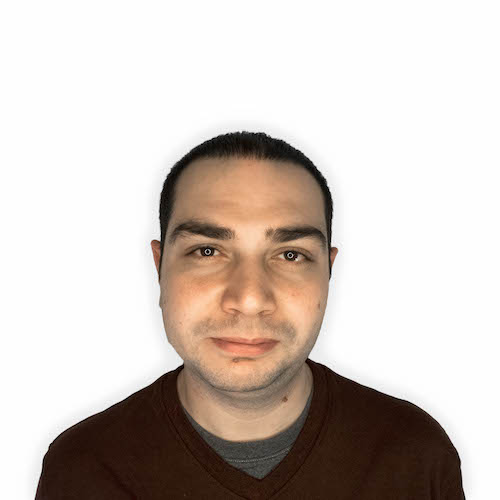
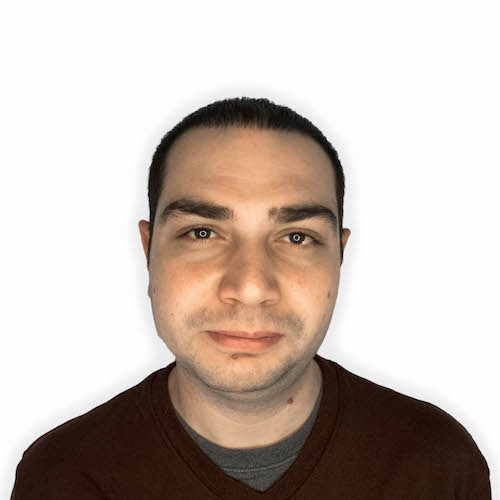
add team split, image tweaks

Changed region(s): [[0.0, 0.18, 0.99, 1.0], [0.45, 0.81, 0.48, 0.84]]

diff --git a/src/sections/Team.js b/src/sections/Team.js
@@ -1,6 +1,7 @@
 import React from 'react'
 import PropTypes from 'prop-types'
 import styled from 'styled-components'
+import Collapsible from 'react-collapsible'
 import Section from '../components/Section'
 import Title from '../components/Title'
 import Paragraph from '../components/Paragraph'
@@ -48,6 +49,50 @@ const StyledTeam = styled.div`
     flex-wrap: wrap;
     justify-content: space-around;
     margin-left: -3rem;
+
+    .Collapsible {
+        margin-left: 3rem;
+        position: relative;
+    }
+
+    .Collapsible__trigger {
+        margin-bottom: 3rem;
+        padding-bottom: 2rem;
+        border-bottom: 1px solid rgba(${colors.white}, .25);
+        display: block;
+        text-align: center;
+        cursor: pointer;
+
+        &:before {
+            cursor: pointer;
+            position: absolute;
+            top: 30px;
+            left: calc(50% - 25px);
+            width: 50px;
+            height: 50px;
+            background: rgb(${colors.white});
+            border-radius: 5px;
+            color: rgb(${colors.black});
+            font-size: 40px;
+            line-height: 50px;
+        }
+
+        &.is-closed:before {
+            content: '+';
+        }
+
+        &.is-open:before {
+            content: '-';
+            line-height: 43px;
+        }
+    }
+
+    .Collapsible__contentInner {
+        display: flex;
+        flex-wrap: wrap;
+        justify-content: space-around;
+        margin-left: -3rem;
+    }
 `
 
 const StyledMember = styled.div`
@@ -162,6 +207,43 @@ const StyledButton = styled(Button)`
     }
 `
 
+const TeamMember = ({ member }) => (
+    <StyledMember>
+        <img alt={member.name} src={teamImg[member.image]} />
+        <StyledName>{member.name}</StyledName>
+        <StyledLinks>
+            {!!member.linkedin && (
+                <StyledIcon
+                    href={`https://www.linkedin.com/in/${member.linkedin}`}
+                    rel="noopener noreferrer"
+                    target="_blank">
+                    <img alt="linkedin" src={buttonLinkedIn} />
+                </StyledIcon>
+            )}
+            {!!member.github && (
+                <StyledIcon
+                    href={`https://www.github.com/${member.github}`}
+                    rel="noopener noreferrer"
+                    target="_blank">
+                    <img alt="github" src={buttonGithub} />
+                </StyledIcon>
+            )}
+            {!!member.twitter && (
+                <StyledIcon
+                    href={`https://www.twitter.com/${member.twitter}`}
+                    rel="noopener noreferrer"
+                    target="_blank">
+                    <img alt="twitter" src={buttonTwitter} />
+                </StyledIcon>
+            )}
+        </StyledLinks>
+    </StyledMember>
+)
+
+TeamMember.propTypes = {
+    member: PropTypes.object.isRequired // eslint-disable-line react/forbid-prop-types
+}
+
 const Team = ({ toggleModal }) => (
     <Section background={colors.black} fontColor={colors.white} id="team">
         <StyledWrapper>
@@ -171,47 +253,23 @@ const Team = ({ toggleModal }) => (
 
             <ContentRow narrow>
                 <StyledParagraph>
-          The Ocean Protocol team combines a deep background in big data, blockchain, artificial intelligence and data
-          exchanges, with real-world business experience as entrepreneurs, designers and technologists who have started
-          over 20 companies.
+          The Ocean Protocol team combines a deep background in big data, blockchain, artificial intelligence and data exchanges, with real-world business experience as entrepreneurs, designers and technologists who have started over 20 companies.
                 </StyledParagraph>
             </ContentRow>
 
             <ContentRow>
                 <StyledLine />
                 <StyledTeam>
-                    {team.map((member) => (
-                        <StyledMember key={member.name}>
-                            <img alt={member.name} src={teamImg[member.image]} />
-                            <StyledName>{member.name}</StyledName>
-                            <StyledLinks>
-                                {!!member.linkedin && (
-                                    <StyledIcon
-                                        href={`https://www.linkedin.com/in/${member.linkedin}`}
-                    rel="noopener" //eslint-disable-line
-                                        target="_blank">
-                                        <img alt="linkedin" src={buttonLinkedIn} />
-                                    </StyledIcon>
-                                )}
-                                {!!member.github && (
-                                    <StyledIcon
-                                        href={`https://www.github.com/${member.github}`}
-                    rel="noopener" //eslint-disable-line
-                                        target="_blank">
-                                        <img alt="github" src={buttonGithub} />
-                                    </StyledIcon>
-                                )}
-                                {!!member.twitter && (
-                                    <StyledIcon
-                                        href={`https://www.twitter.com/${member.twitter}`}
-                    rel="noopener" //eslint-disable-line
-                                        target="_blank">
-                                        <img alt="twitter" src={buttonTwitter} />
-                                    </StyledIcon>
-                                )}
-                            </StyledLinks>
-                        </StyledMember>
+                    {team.filter((item) => teamImg[item.image]).filter((item, index) => index < 15).map((member) => (
+                        <TeamMember key={member.name} member={member} />
                     ))}
+                    {team.filter((item) => teamImg[item.image]).length >= 15 &&
+                        <Collapsible easing="ease-out" transitionTime={200} trigger="See the entire team">
+                            {team.filter((item) => teamImg[item.image]).filter((item, index) => index >= 15).map((member) => (
+                                <TeamMember key={member.name} member={member} />
+                            ))}
+                        </Collapsible>
+                    }
                 </StyledTeam>
             </ContentRow>
 

diff --git a/src/assets/team/index.js b/src/assets/team/index.js
@@ -17,9 +17,11 @@ import julian from './julian.jpg'
 import jernej from './jernej.jpg'
 import kamal from './kamal.jpg'
 import katharina from './katharina.jpg'
+import kiran from './kiran.jpg'
 import manuel from './manuel.jpg'
 import masha from './masha.jpg'
 import matthias from './matthias.jpg'
+import mike from './mike.jpg'
 import muawia from './muawia.jpg'
 import oana from './oana.jpg'
 import ricardo from './ricardo.jpg'
@@ -52,9 +54,11 @@ export default {
     julian,
     kamal,
     katharina,
+    kiran,
     manuel,
     masha,
     matthias,
+    mike,
     muawia,
     oana,
     ricardo,
